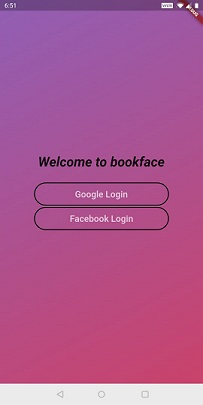
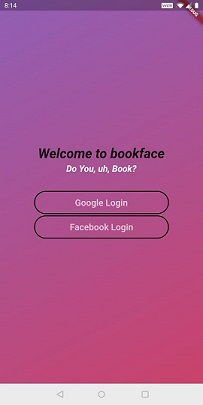
constants

Changed region(s): [[0.1478, 0.3556, 0.8571, 0.5926], [0.0296, 0.0, 0.0887, 0.0296]]

diff --git a/lib/login.dart b/lib/login.dart
@@ -1,3 +1,4 @@
+import 'package:bookface/constants/strings.dart';
 import 'package:bookface/routes/routes.dart';
 import 'package:bookface/widgets/custom_outline_button.dart';
 import 'package:flutter/material.dart';
@@ -19,18 +20,27 @@ class LoginPage extends StatelessWidget {
           child: Column(
             mainAxisAlignment: MainAxisAlignment.center,
             children: <Widget>[
-              Text("Welcome to bookface",
+              Text(Strings.welcome,
                   style: TextStyle(
                       fontSize: 30,
                       fontStyle: FontStyle.italic,
                       fontWeight: FontWeight.bold)),
               Padding(
-                padding: EdgeInsets.only(bottom: 30),
+                padding: EdgeInsets.only(bottom: 5),
+              ),
+              Text(Strings.tagline,
+                  style: TextStyle(
+                      color: Colors.white,
+                      fontSize: 20,
+                      fontStyle: FontStyle.italic,
+                      fontWeight: FontWeight.bold)),
+              Padding(
+                padding: EdgeInsets.only(bottom: 40),
               ),
               CustomOutlineButton(
                 height: 50.0,
                 width: 300.0,
-                text: "Google Login",
+                text: Strings.google_login,
                 color: Colors.white70,
                 onPressed: () =>
                     Navigator.of(context).pushNamed(Routes.category),
@@ -41,7 +51,7 @@ class LoginPage extends StatelessWidget {
               CustomOutlineButton(
                 height: 50.0,
                 width: 300.0,
-                text: "Facebook Login",
+                text: Strings.facebook_login,
                 color: Colors.white70,
                 onPressed: () =>
                     Navigator.of(context).pushNamed(Routes.category),

diff --git a/lib/widgets/category_item.dart b/lib/widgets/category_item.dart
@@ -1,3 +1,5 @@
+import 'package:bookface/constants/images.dart';
+import 'package:bookface/constants/strings.dart';
 import 'package:flutter/material.dart';
 
 class CategoryItem {
@@ -10,25 +12,25 @@ class CategoryItem {
 
 List<CategoryItem> categoryList = [
   CategoryItem(
-      image: 'assets/art_and_music.jpg',
-      text: "Arts & Music",
+      image: Images.art_and_music,
+      text: Strings.art_and_music,
       color: Colors.transparent),
   CategoryItem(
-      image: 'assets/comic.jpg', text: "Comics", color: Colors.transparent),
+      image: Images.comic, text: Strings.comic, color: Colors.transparent),
   CategoryItem(
-      image: 'assets/computer_and_tech.jpg',
-      text: "Computers and Tech",
+      image: Images.computer_and_tech,
+      text: Strings.computer_and_tech,
       color: Colors.transparent),
   CategoryItem(
-      image: 'assets/cooking.jpg', text: "Cooking", color: Colors.transparent),
+      image: Images.cooking, text: Strings.cooking, color: Colors.transparent),
   CategoryItem(
-      image: 'assets/health_and_fitness.jpg',
-      text: "Health & Fitness",
+      image: Images.health_and_fitness,
+      text: Strings.health_and_fitness,
       color: Colors.transparent),
   CategoryItem(
-      image: 'assets/romance.jpg', text: "Romance", color: Colors.transparent),
+      image: Images.romance, text: Strings.romance, color: Colors.transparent),
   CategoryItem(
-      image: 'assets/mystery.jpg', text: "Mystery", color: Colors.transparent),
+      image: Images.mystery, text: Strings.mystery, color: Colors.transparent),
   CategoryItem(
-      image: 'assets/travel.jpg', text: "Travel", color: Colors.transparent),
+      image: Images.travel, text: Strings.travel, color: Colors.transparent),
 ];

diff --git a/lib/home.dart b/lib/home.dart
@@ -1,50 +1,11 @@
-import 'package:bookface/widgets/custom_outline_button.dart';
 import 'package:flutter/material.dart';
 
 class HomePage extends StatelessWidget {
   @override
   Widget build(BuildContext context) {
     return Scaffold(
-      body: Container(
-        decoration: BoxDecoration(
-          gradient: LinearGradient(
-              colors: [const Color(0xFF915FB5), const Color(0xFFCA436B)],
-              begin: FractionalOffset.topLeft,
-              end: FractionalOffset.bottomRight,
-              stops: [0.0, 1.0],
-              tileMode: TileMode.clamp),
-        ),
-        child: Center(
-          child: Column(
-            mainAxisAlignment: MainAxisAlignment.center,
-            children: <Widget>[
-              Text("Welcome to bookface",
-                  style: TextStyle(
-                      fontSize: 30,
-                      fontStyle: FontStyle.italic,
-                      fontWeight: FontWeight.bold)),
-              Padding(
-                padding: EdgeInsets.only(bottom: 30),
-              ),
-              CustomOutlineButton(
-                height: 50.0,
-                width: 300.0,
-                text: "Google Login",
-                color: Colors.white70,
-              ),
-              Padding(
-                padding: EdgeInsets.only(bottom: 5),
-              ),
-              CustomOutlineButton(
-                height: 50.0,
-                width: 300.0,
-                text: "Facebook Login",
-                color: Colors.white70,
-              ),
-            ],
-          ),
-        ),
-      ),
-    );
+        body: Center(
+      child: Text("Home Page"),
+    ));
   }
 }

diff --git a/lib/constants/strings.dart b/lib/constants/strings.dart
@@ -1,0 +1,23 @@
+class Strings {
+  Strings._();
+
+  //general
+  static const String app_name = 'bookface';
+  static const String tagline = 'Do You, uh, Book?';
+
+  //login
+  static const String welcome = 'Welcome to bookface';
+  static const String google_login = 'Google Login';
+  static const String facebook_login = 'Facebook Login';
+
+  //categories
+  static const String choose_category = 'Choose upto 3 categories';
+  static const String art_and_music = 'Arts & Music';
+  static const String comic = 'Comics';
+  static const String computer_and_tech = 'Computers and Tech';
+  static const String cooking = 'Cooking';
+  static const String health_and_fitness = 'Health & Fitness';
+  static const String romance = 'Romance';
+  static const String mystery = 'Mystery';
+  static const String travel = 'Travel';
+}

diff --git a/lib/splash.dart b/lib/splash.dart
@@ -1,4 +1,6 @@
 import 'dart:async';
+import 'package:bookface/constants/images.dart';
+import 'package:bookface/constants/strings.dart';
 import 'package:bookface/routes/routes.dart';
 import 'package:flutter/material.dart';
 
@@ -32,10 +34,10 @@ class _SplashScreenState extends State<SplashScreen> {
           crossAxisAlignment: CrossAxisAlignment.center,
           children: <Widget>[
             Image.asset(
-              "assets/logo.png",
+              Images.app_logo,
             ),
             Text(
-              "bookface",
+              Strings.app_name,
               textDirection: TextDirection.ltr,
               style: TextStyle(
                   fontSize: 40,

diff --git a/lib/constants/images.dart b/lib/constants/images.dart
@@ -1,0 +1,16 @@
+class Images {
+  Images._();
+
+  //general
+  static const String app_logo = 'assets/logo.png';
+
+  //categories
+  static const String art_and_music = 'assets/art_and_music.jpg';
+  static const String comic = 'assets/comic.jpg';
+  static const String computer_and_tech = 'assets/computer_and_tech.jpg';
+  static const String cooking = 'assets/cooking.jpg';
+  static const String health_and_fitness = 'assets/health_and_fitness.jpg';
+  static const String romance = 'assets/romance.jpg';
+  static const String mystery = 'assets/mystery.jpg';
+  static const String travel = 'assets/travel.jpg';
+}

diff --git a/lib/categories.dart b/lib/categories.dart
@@ -1,3 +1,4 @@
+import 'package:bookface/constants/strings.dart';
 import 'package:bookface/routes/routes.dart';
 import 'package:bookface/widgets/category_item.dart';
 import 'package:flutter/material.dart';
@@ -8,7 +9,7 @@ class CategoryPage extends StatelessWidget {
     return Scaffold(
       appBar: AppBar(
         leading: Icon(Icons.arrow_back_ios),
-        title: Text("Choose upto 3 categories"),
+        title: Text(Strings.choose_category),
         backgroundColor: Color(0xFF915FB5),
       ),
       body: Container(
